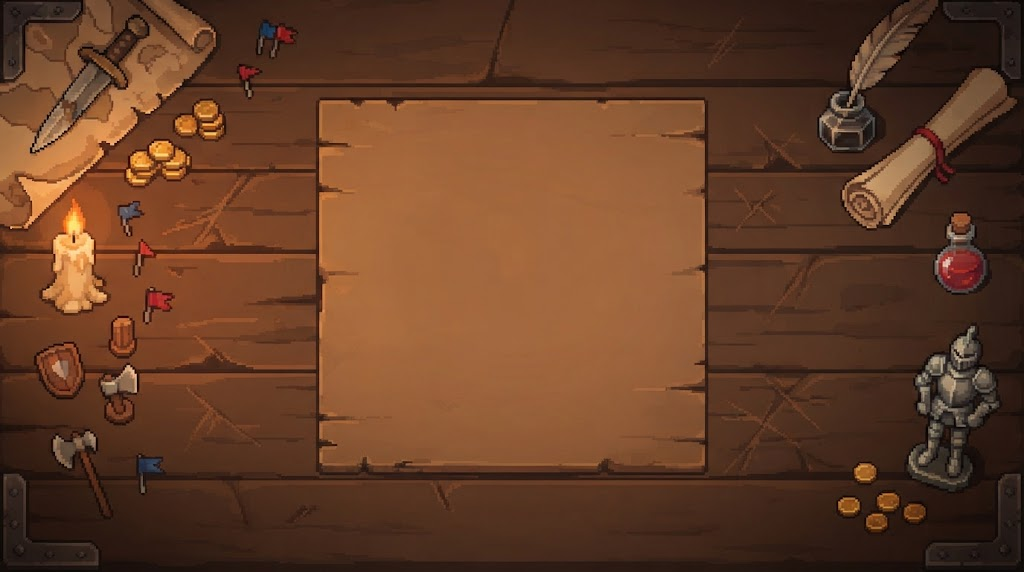
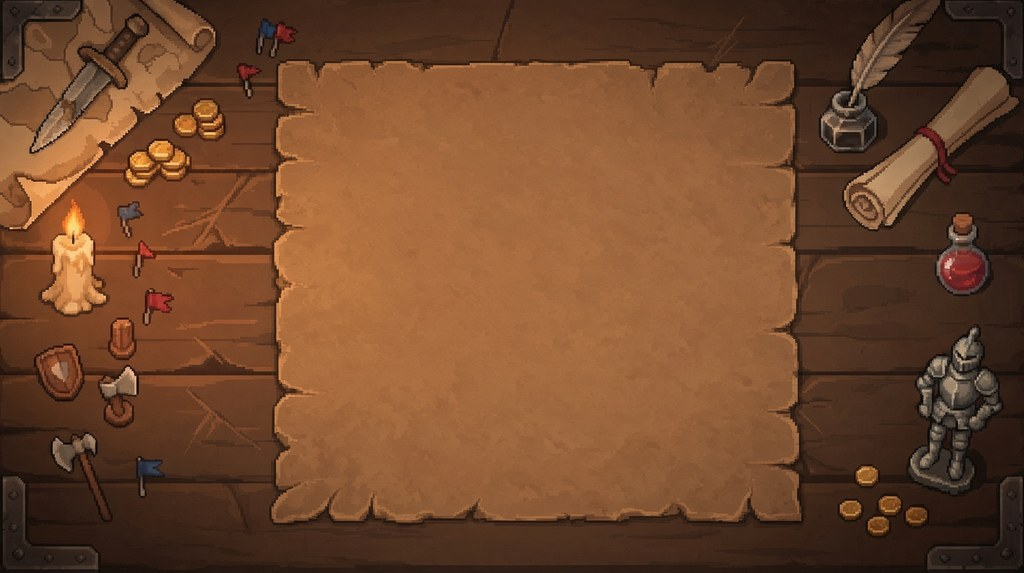
New war table art; bigger board fills the parchment, candle glow re-aligned
+7 -7

diff --git a/index.html b/index.html
@@ -1927,8 +1927,8 @@
     background: url("assets/ui/war-table.jpg") center / cover no-repeat; filter: blur(6px) brightness(0.55); }
   #stage { position: absolute; left: 50%; top: 50%; width: 1280px; height: 720px; flex: none; transform: translate(-50%, -50%) scale(var(--ss, 1)); transform-origin: 50% 50%; z-index: 1;
     background: url("assets/ui/war-table.jpg") center / cover no-repeat; image-rendering: pixelated; box-shadow: 0 0 40px rgba(0, 0, 0, 0.7); }
-  /* the war table's empty parchment square (x 318-706, y 98-472 of 1024x572) holds the map */
-  #stage .game-play-area { position: absolute; left: 396px; top: 123px; width: 488px; height: 471px; padding: 8px; flex: none; background: none !important; overflow: visible; }
+  /* the war table's parchment (x 275-797, y 61-521 of 1024x573; stage x 342-998, y 77-655) holds the map: full height below the HUD, centered on the parchment */
+  #stage .game-play-area { position: absolute; left: 406px; top: 123px; width: 528px; height: 528px; padding: 4px; flex: none; background: none !important; overflow: visible; }
   #stage .room-canvas { max-width: 100%; max-height: 100%; }
   /* framed HUD over the table's top rail */
   #stage .game-hud { position: absolute; left: 10px; right: 10px; top: 6px; height: 110px; box-sizing: border-box; padding: 2px 6px; gap: 4px 12px;
@@ -1986,11 +1986,11 @@
   #gameplay-overlay.landscape #stage .game-play-area { grid-column: 2; grid-row: 1 / -1; position: relative; left: 0; top: 0; width: auto; height: auto; min-height: 0; min-width: 0; padding: 2px; overflow: hidden;
     background: url("assets/ui/war-table.jpg") center / cover no-repeat !important; image-rendering: pixelated; }
   #gameplay-overlay.portrait #stage .game-play-area { overflow: hidden; }
-  /* candle flicker: additive warm glow over the war table's candle (source ~x75 y215 of 1024x572), stepped for a pixel feel */
+  /* candle flicker: additive warm glow over the war table's candle (flame x 62-85, y 199-233 of 1024x573), stepped for a pixel feel */
   .candle-glow { position: absolute; z-index: 0; pointer-events: none; border-radius: 50%; transform: translate(-50%, -50%); mix-blend-mode: plus-lighter;
     background: radial-gradient(circle, rgba(255, 200, 110, 0.55) 0, rgba(255, 150, 50, 0.28) 30%, rgba(255, 120, 30, 0.1) 52%, rgba(255, 110, 20, 0) 70%);
     animation: candleFlicker 1.7s steps(1, end) infinite; }
-  #stage > .candle-glow { left: 90px; top: 268px; width: 92px; height: 92px; }
+  #stage > .candle-glow { left: 88px; top: 276px; width: 92px; height: 92px; }
   #gameplay-overlay > .candle-glow { filter: blur(6px) brightness(0.55); }
   #gameplay-overlay:is(.portrait, .landscape) #stage > .candle-glow, #gameplay-overlay:not(.portrait):not(.landscape) .game-play-area > .candle-glow { display: none; }
   @keyframes candleFlicker {
@@ -4044,10 +4044,10 @@ function fitStage() {
   window.ddStageScale = s; st.style.setProperty("--ss", s);
   requestAnimationFrame(placeCandles);
 }
-/* put a candle glow where the war table's candle lands in a cover-fit box (image 1024x572, candle flame ~75,215) */
+/* put a candle glow where the war table's candle lands in a cover-fit box (image 1024x573, candle flame ~73,220) */
 function coverGlow(el, x0, y0, W, H) {
-  if (!el) return; const sc = Math.max(W / 1024, H / 572), ox = x0 + (W - 1024 * sc) / 2, oy = y0 + (H - 572 * sc) / 2, d = Math.round(73 * sc);
-  Object.assign(el.style, { left: Math.round(ox + 75 * sc) + "px", top: Math.round(oy + 215 * sc) + "px", width: d + "px", height: d + "px" });
+  if (!el) return; const sc = Math.max(W / 1024, H / 573), ox = x0 + (W - 1024 * sc) / 2, oy = y0 + (H - 573 * sc) / 2, d = Math.round(73 * sc);
+  Object.assign(el.style, { left: Math.round(ox + 73 * sc) + "px", top: Math.round(oy + 220 * sc) + "px", width: d + "px", height: d + "px" });
 }
 function placeCandles() {
   coverGlow(document.getElementById("glow-side"), -20, -20, innerWidth + 40, innerHeight + 40); /* matches #gameplay-overlay::before (inset -20px) */
